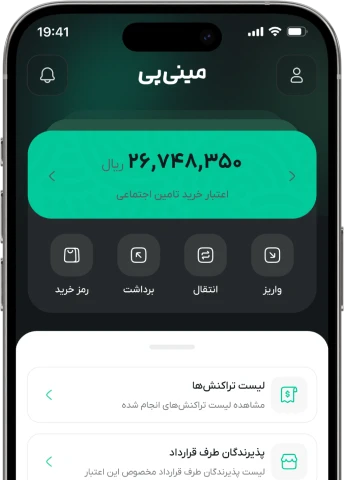
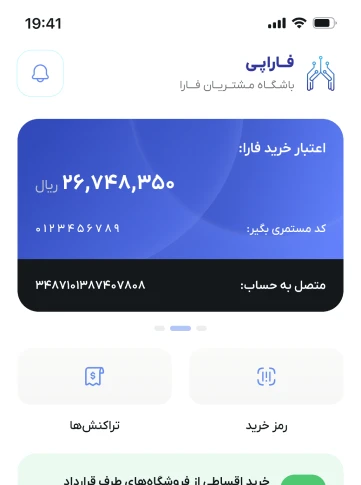
first commit

diff --git a/app/components/common/Footer.vue b/app/components/common/Footer.vue
@@ -10,17 +10,14 @@
           <div class="flex flex-col gap-4">
             <Icon class="w-53 h-13" name="icon:logo-type-white" />
             <span class="text-base text-white/70 font-medium">
-              سامانه خرید اعتباری / اقساطی مستمری بگیران
+              سامانه خرید اعتباری و فروش اقساطی
             </span>
             <span class="text-base text-white/70 font-medium">
-              تلفن پشتیبانی:
+              تلفن پشتیبانی: (داخلی ۴)
             </span>
             <div class="flex flex-row items-center gap-2">
-              <a
-                class="text-base text-white font-semibold"
-                href="tel:02132917000"
-              >
-                02132917000
+              <a class="text-base text-white font-semibold" href="tel:0216369">
+                0216369
               </a>
             </div>
           </div>
@@ -58,37 +55,6 @@
               <div
                 class="flex justify-center items-center gap-2 text-white p-2 rounded-lg border border-solid border-white/30 bg-white/15 backdrop-blur-3xl cursor-pointer"
               >
-                <Icon class="fill-white" name="icon:ic-footer-instagram" />
-                <span class="text-sm text-white/50 font-normal">
-                  حساب ما در
-                  <span class="text-sm text-white font-semibold">
-                    اینستاگرام
-                  </span>
-                </span>
-              </div>
-              <div
-                class="flex justify-center items-center gap-2 text-white p-2 rounded-lg border border-solid border-white/30 bg-white/15 backdrop-blur-3xl cursor-pointer"
-              >
-                <Icon class="fill-white" name="icon:ic-footer-rubika" />
-                <span class="text-sm text-white/50 font-normal">
-                  حـســـاب مـــــا در
-                  <span class="text-sm text-white font-semibold"> تلگرام </span>
-                </span>
-              </div>
-              <div
-                class="flex justify-center items-center gap-2 text-white p-2 rounded-lg border border-solid border-white/30 bg-white/15 backdrop-blur-3xl cursor-pointer"
-              >
-                <Icon class="fill-white" name="icon:ic-footer-eeta" />
-                <span class="text-sm text-white/50 font-normal">
-                  حـســــاب مـــــا در
-                  <span class="text-sm text-white font-semibold">
-                    ایـتــــا
-                  </span>
-                </span>
-              </div>
-              <div
-                class="flex justify-center items-center gap-2 text-white p-2 rounded-lg border border-solid border-white/30 bg-white/15 backdrop-blur-3xl cursor-pointer"
-              >
                 <Icon class="fill-white" name="icon:ic-footer-bale" />
                 <span class="text-sm text-white/50 font-normal">
                   حـســـاب مـــــا در
@@ -103,7 +69,8 @@
         <div class="w-full h-px bg-white/30"></div>
         <div class="text-center pb-8">
           <span class="text-sm text-white/70 font-medium">
-            کلیه حقوق این وبسایت متعلق به شرکت ایده بنیان مبتکر پارس است.
+            کلیه حقوق این وبسایت متعلق به شرکت فناوری اطلاعات رفاه ایرانیان
+            (فارا) است.
           </span>
         </div>
       </div>

diff --git a/app/components/landing/Steps.vue b/app/components/landing/Steps.vue
@@ -14,19 +14,19 @@ const plugin = Autoplay({
 
 const step_items = ref([
   {
-    title: "ثبت نام غیر حضوری و مشاهده اعتبار",
+    title: "مستمری بگیر سازمان تامین اجتماعی باشد",
     icon: "icon:ic-steps-1",
     is_active: true,
     image: "/images/image-steps-1.webp",
   },
   {
-    title: "مراجعه و خرید از فروشگاههای طرف قرارداد",
+    title: "حقوق مستمری خود را در بانک رفاه دریافت نماید",
     icon: "icon:ic-steps-2",
     is_active: false,
     image: "/images/image-steps-2.webp",
   },
   {
-    title: "مشاهده جزئیات خرید و پرداخت اقساط اعتبار",
+    title: "بیش از 6 ماه از زمان بازنشستگی فرد گذشته باشد",
     icon: "icon:ic-steps-3",
     is_active: false,
     image: "/images/image-steps-3.webp",
@@ -52,14 +52,11 @@ onMounted(() => {
   >
     <div class="flex flex-col gap-10 p-4 lg:p-0">
       <div
-        class="flex flex-col lg:flex-row justify-center lg:justify-between items-center lg:items-end gap-4 text-center lg:text-right"
+        class="flex flex-col lg:flex-row justify-center lg:justify-between items-center gap-4 text-center lg:text-right"
       >
         <div class="flex flex-col gap-2">
-          <span class="text-base text-gray-500 font-normal">
-            مراحل ثبتنام و دریافت
-          </span>
           <span class="text-base xl:text-xl text-black font-bold">
-            خدمات اعتباری و اقساطی مستمری بگیران
+            شرایط دریافت اعتبار خرید از فارا
           </span>
         </div>
         <div class="flex flex-col gap-2">

diff --git a/app/components/landing/Hero.vue b/app/components/landing/Hero.vue
@@ -40,11 +40,11 @@ const feature_items = ref([
       >
         <div class="flex flex-col gap-4">
           <span class="text-xl lg:text-3xl font-black">
-            <span class="text-primary"> اعتبار اجتماعی </span>
+            <span class="text-primary"> اعتبار خرید فارا </span>
             شما برای ما کافیه...
           </span>
           <span class="text-sm lg:text-xl text-gray-500 font-medium">
-            خرید اعتباری و اقساطی ویژه مستمری بگیران سازمان تامین اجتماعی
+            ویژگی مستمری بگیران سازمان تامین اجتماعی در بانک رفاه
           </span>
         </div>
         <div class="flex flex-row items-center gap-4">
@@ -66,7 +66,7 @@ const feature_items = ref([
             </Avatar>
           </div>
           <span class="text-sm lg:text-base text-primary font-semibold">
-            خرید اعتباری از ۱۰۰۰+ فروشگاه
+            خرید اعتباری از ۱۰۰+ فروشگاه
           </span>
         </div>
       </div>

diff --git a/app/components/landing/Shops.vue b/app/components/landing/Shops.vue
@@ -14,28 +14,20 @@ const plugin = Autoplay({
 
 const shop_items = ref([
   {
-    name: "افق کوروش",
-    image: "/images/image-carousel-shop-1.webp",
-  },
-  {
-    name: "گندم",
-    image: "/images/image-carousel-shop-2.webp",
+    name: "وال مارکت",
+    image: "/images/image-carousel-shop-6.webp",
   },
   {
     name: "دیلی مارکت",
     image: "/images/image-carousel-shop-3.webp",
   },
   {
-    name: "هایپرمی",
-    image: "/images/image-carousel-shop-4.webp",
+    name: "گندم",
+    image: "/images/image-carousel-shop-2.webp",
   },
   {
     name: "هفت",
     image: "/images/image-carousel-shop-5.webp",
-  },
-  {
-    name: "وال مارکت",
-    image: "/images/image-carousel-shop-6.webp",
   },
 ]);
 </script>
@@ -56,7 +48,7 @@ const shop_items = ref([
         <CarouselItem
           v-for="(item, index) in shop_items"
           :key="index"
-          class="basis-1/3 md:basis-1/4 lg:basis-1/6"
+          class="basis-1/3 md:basis-1/4"
         >
           <img
             :src="item.image"

diff --git a/app/components/landing/Download.vue b/app/components/landing/Download.vue
@@ -30,12 +30,12 @@ const download_items = ref([
             دانلود اپلیکیشن
           </span>
           <span class="text-base xl:text-xl text-black font-bold">
-            خدمات اعتباری و اقساطی مستمری بگیران
+            خدمات فروش اعتباری و پرداخت اقساطی
           </span>
         </div>
         <span class="text-sm xl:text-lg text-gray-500 font-medium">
-          با استفاده از اپلیکیشن مینیپی، کیف پول اعتباری خود را فعال و از بیش
-          از ۸۰0۰ فروشگاه معتبر بصورت اقساطی خرید کنید!
+          با استفاده از اپلیکیشن فارا، حساب اعتباری خود را فعال کرده و از بیش از
+          یکصد فروشگاه معتبر بصورت اقساطی خرید کنید!
         </span>
       </div>
       <div class="grid grid-cols-2 grid-rows-2 gap-8">

diff --git a/app/components/common/Header.vue b/app/components/common/Header.vue
@@ -17,14 +17,14 @@ const navigation_items = ref([
         class="hidden sm:flex flex-row justify-between items-center gap-2 p-4 invisible sm:visible"
       >
         <span class="text-xs text-blue-500 font-medium">
-          سامانه خرید اعتباری / اقساطی مستمری بگیران
+          سامانه خرید اعتباری و پرداخت اقساطی فارا
         </span>
         <div class="flex flex-row justify-end items-center gap-2">
           <span class="text-xs text-blue-500 font-normal">
-            تلفن پشتیبانی:
+            تلفن پشتیبانی: (داخلی ۴)
           </span>
-          <a class="text-xs text-blue-700 font-semibold" href="tel:02132917000">
-            02132917000
+          <a class="text-xs text-blue-700 font-semibold" href="tel:0216369">
+            0216369
           </a>
         </div>
       </div>
